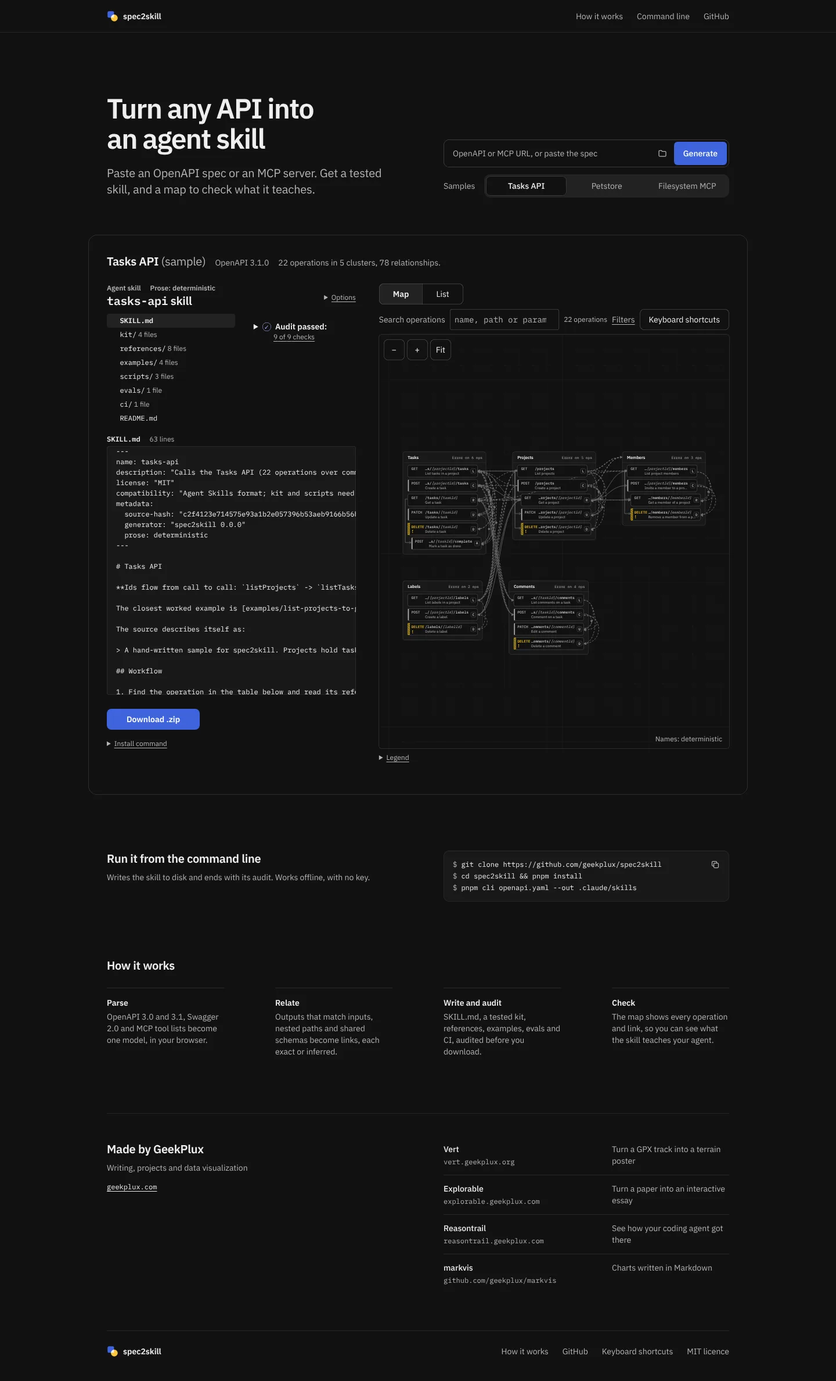
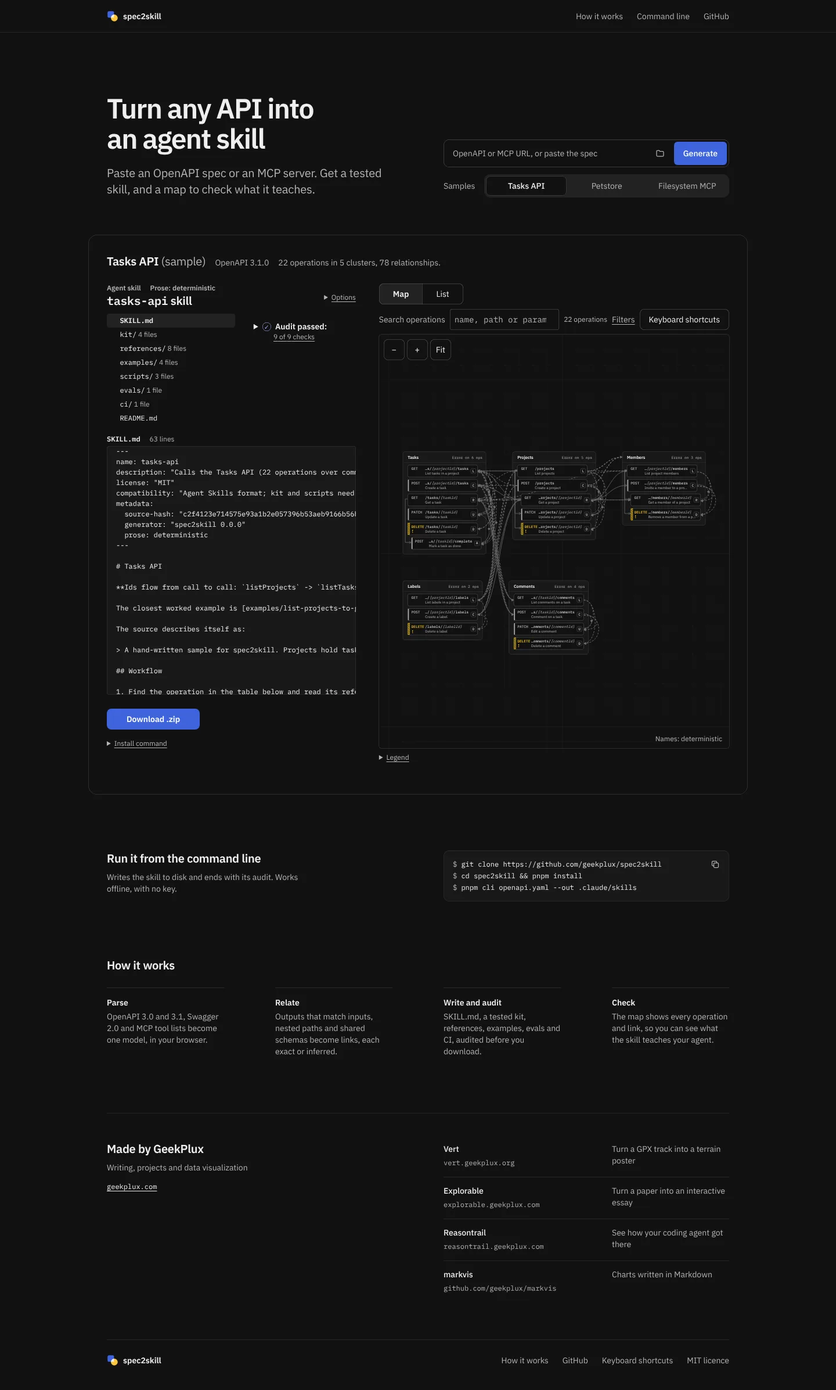
Redesign R2: verify round 1 fixes
Frame keeps 16 px from the window below 1200 (wrap padding 48); hero stacks below 960; one-line
placeholder; Samples columns minmax(max-content, 1fr) and wrap under the label; phone menu closes on
Escape and outside tap; CLI text 44ch, Made by rows 72 px, full-width phone rule, target field label,
Open file ring clear of Generate. MCP fallback: 5xx retried once, MCP-only errors shown, text/html
bodies that parse as a spec accepted. Redesign flows write committed shots only with --capture.

Claude-Session: https://claude.ai/code/session_018f8FAnzov9ZBQEqsiVnGBS

diff --git a/src/app.css b/src/app.css
@@ -23,6 +23,9 @@ code { font-family: var(--font-mono); font-size: inherit; }
    below; below 640 px it is one column with a 16 px gutter. */
 :root { --gap: min(var(--space-88), 7.75vw); }
 .wrap { width: 100%; max-width: 1136px; margin: 0 auto; padding: 0 var(--space-32); }
+/* Below 1200 px the window no longer leaves 32 px outside the column, so the side padding grows to 48:
+   the frame, hanging 32 px, keeps 16 px from the window edge (D39). */
+@media (max-width: 1199px) { .wrap { padding: 0 var(--space-48); } }
 .two { display: grid; grid-template-columns: repeat(2, minmax(0, 1fr)); column-gap: var(--gap); }
 .muted { color: var(--gray-11); }
 .mono { font-family: var(--font-mono); }
@@ -61,17 +64,20 @@ code { font-family: var(--font-mono); font-size: inherit; }
 }
 .source .input:focus-visible { outline: none; }
 .source .input:focus { height: auto; min-height: var(--field-h); max-height: 12lh; field-sizing: content; } /* pasted text shows while editing */
-.source .input::placeholder { color: var(--gray-11); opacity: 1; }
-.source-field .icon-btn { margin-bottom: var(--space-4); }
+.source .input::placeholder { color: var(--gray-11); opacity: 1; text-overflow: ellipsis; }
+/* The placeholder stays on one line (cut with an ellipsis) instead of wrapping out of the 40 px box. */
+.source .input:placeholder-shown { white-space: nowrap; overflow: hidden; text-overflow: ellipsis; }
+.source-field .icon-btn { margin: 0 var(--space-4) var(--space-4) 0; } /* its focus ring stays clear of Generate */
 .generate {
   flex: none; height: var(--field-h); padding: 0 var(--space-16); border: 0; border-radius: var(--radius-row);
   background: var(--indigo-9); color: var(--indigo-contrast); font: 500 var(--text-14)/var(--leading-14) var(--font-sans); white-space: nowrap; cursor: pointer;
 }
 /* "Samples" and the segmented control filling the rest of the row. */
-.samples { display: flex; align-items: center; gap: var(--space-16); }
+/* When "Samples" and the control no longer fit one line, the control wraps under the label. */
+.samples { display: flex; flex-wrap: wrap; align-items: center; gap: var(--space-8) var(--space-16); }
 .samples-label { color: var(--gray-11); }
 .seg { display: inline-flex; gap: var(--space-2); padding: var(--space-4); border-radius: var(--radius-box); background: var(--gray-3); }
-.samples .seg { flex: 1; display: grid; grid-template-columns: repeat(3, minmax(0, 1fr)); }
+.samples .seg { flex: 1 0 max-content; display: grid; grid-template-columns: repeat(3, minmax(max-content, 1fr)); }
 .seg-item {
   position: relative; display: flex; align-items: center; justify-content: center; height: 32px; padding: 0 var(--space-12);
   border-radius: var(--radius-row); color: var(--gray-11); white-space: nowrap; cursor: pointer;
@@ -90,6 +96,7 @@ code { font-family: var(--font-mono); font-size: inherit; }
 .block:focus, .block:focus-visible { outline: none; }
 .block h2, .made h2 { margin: 0 0 var(--space-8); }
 .two h2 + p, .block h2 + p { margin: 0; }
+#cli h2 + p { max-width: 44ch; }
 .cli { position: relative; min-width: 0; border-radius: var(--radius-box); background: var(--gray-2); box-shadow: inset 0 0 0 var(--line) var(--gray-6); }
 .cli pre { margin: 0; padding: var(--space-14) var(--space-48) var(--space-14) var(--space-16); font: var(--text-12)/20px var(--font-mono); white-space: pre-wrap; overflow-wrap: anywhere; } /* wraps on narrow columns: never a scroll region */
 .cli-line { display: block; }
@@ -111,11 +118,15 @@ code { font-family: var(--font-mono); font-size: inherit; }
 .projects li:first-child a { padding-top: var(--space-4); box-shadow: none; }
 .projects b { font-weight: 500; }
 .project-text { grid-column: 2; grid-row: 1 / span 2; color: var(--gray-11); }
-.projects code { margin-top: var(--space-4); color: var(--gray-11); font-size: var(--text-12); line-height: var(--leading-12); }
+.projects code { margin-top: var(--space-4); color: var(--gray-11); font-size: var(--text-12); line-height: 20px; } /* rows of 72 px, as the target */
 .projects a:hover b { text-decoration: underline; text-decoration-thickness: var(--line); text-underline-offset: 3px; }
 .foot { margin-top: var(--space-64); }
 .foot-in { height: 72px; display: flex; align-items: center; justify-content: space-between; box-shadow: inset 0 var(--line) 0 var(--gray-6); }
 
+@media (max-width: 959px) {
+  /* The hero stacks before its field gets too narrow for the placeholder. */
+  .two.hero-in { grid-template-columns: minmax(0, 1fr); row-gap: var(--space-24); }
+}
 @media (max-width: 639px) {
   /* Phones (V2Phone): one column, a 16 px gutter; the field becomes input over a full-width Generate. */
   .wrap { padding: 0 var(--space-16); }
@@ -129,16 +140,19 @@ code { font-family: var(--font-mono); font-size: inherit; }
   }
   .hdr .nav[data-open] a { display: flex; align-items: center; min-height: 44px; }
   .hero { padding: var(--space-40) 0 var(--space-32); }
-  .hero-in { row-gap: var(--space-24); }
   .hero-lede { font-size: var(--text-14); line-height: var(--leading-14); letter-spacing: 0; }
   .source-field { flex-wrap: wrap; padding: var(--space-4); }
   .source .input { padding-inline: var(--space-12); }
   .generate { flex-basis: 100%; }
   .samples { flex-direction: column; align-items: stretch; gap: var(--space-8); }
+  .samples .seg { flex: none; }
   .samples .seg { grid-template-columns: auto auto auto; }
   .seg-item { padding: 0 var(--space-8); }
   /* The result is not a framed card on phones: a rule above it. */
-  .frame { margin: 0; padding: var(--space-32) 0 0; border-radius: 0; box-shadow: inset 0 var(--line) 0 var(--gray-6); }
+  .frame {
+    margin: 0 calc(-1 * var(--space-16)); padding: var(--space-32) var(--space-16) 0; border-radius: 0;
+    box-shadow: inset 0 var(--line) 0 var(--gray-6); /* the rule spans the window; the contents keep the gutter */
+  }
   .block { padding-top: var(--space-64); }
   .made { margin-top: var(--space-64); }
   .made-in { padding-top: var(--space-40); }

diff --git a/src/source/fetchSource.test.ts b/src/source/fetchSource.test.ts
@@ -11,6 +11,7 @@ const TOOLS = { tools: [{ name: 'read_file', description: 'Read a file', inputSc
 const text = (body: string, headers: Record<string, string> = {}, status = 200) => new Response(body, { status, headers });
 const json = (body: unknown, status = 200) => text(JSON.stringify(body), { 'content-type': 'application/json' }, status);
 const html = (status = 404) => text('<!doctype html><title>x</title>', { 'content-type': 'text/html' }, status);
+const asHtml = (body: string) => () => text(body, { 'content-type': 'text/html; charset=utf-8' });
 const cors = () => Promise.reject(new TypeError('Failed to fetch'));
 
 /** Runs loadSource against `routes` (exact URL -> handler); records calls, steps and writes. */
@@ -131,7 +132,7 @@ describe('loadSource: URLs', () => {
 
   it('keeps the spec error when the MCP retry fails too, and never retries outside Auto', async () => {
     const url = 'https://specs.example.test/data.json';
-    const both = await run({ url }, { [url]: () => json({ hello: 1 }), '/api/mcp/tools': () => json({ error: { code: 'legacy-transport', message: '' } }, 502) });
+    const both = await run({ url }, { [url]: () => json({ hello: 1 }), '/api/mcp/tools': () => json({ error: { code: 'http-error', message: 'The server answered 404.' } }, 502) });
     expect(codeOf(both.error)).toBe('unsupported');
     expect((both.error as Error).message).toContain('"hello"');
     const page = await run({ url }, { [url]: () => html(200), '/api/mcp/tools': () => json({ error: { code: 'http-error', message: 'The server answered 404.' } }, 502) });
@@ -143,6 +144,36 @@ describe('loadSource: URLs', () => {
     expect([codeOf(strict.error), strict.urls]).toEqual(['unsupported', [url]]);
     const mcpOnly = await run({ url }, { [url]: () => text('', {}, 405) }, 'openapi');
     expect(codeOf(mcpOnly.error)).toBe('http-error');
+  });
+
+  it('shows the MCP error instead when the MCP retry fails for a reason only MCP has', async () => {
+    const url = 'https://specs.example.test/data.json';
+    for (const code of ['needs-auth', 'legacy-transport'] as const) {
+      const r = await run({ url }, { [url]: () => json({ hello: 1 }), '/api/mcp/tools': () => json({ error: { code, message: '' } }, code === 'needs-auth' ? 401 : 502) });
+      expect([codeOf(r.error), r.urls]).toEqual([code, [url, '/api/mcp/tools']]);
+    }
+  });
+
+  it('tries a URL whose GET answers 5xx as MCP once, keeping the 5xx error when that fails', async () => {
+    const url = 'https://tools.example.test/rpc';
+    const ok = await run({ url }, { [url]: () => text('', {}, 500), '/api/mcp/tools': () => json(TOOLS) });
+    expect([ok.error, ok.urls, ok.model?.source.kind]).toEqual([undefined, [url, '/api/mcp/tools'], 'mcp']);
+    const down = await run({ url }, { [url]: () => text('', {}, 503), '/api/mcp/tools': () => json({ error: { code: 'http-error', message: 'The server answered 503.' } }, 502) });
+    expect([codeOf(down.error), down.urls]).toEqual(['http-error', [url, '/api/mcp/tools']]);
+    expect((down.error as Error).message).toContain('503');
+  });
+
+  it('accepts a spec or tools/list served as text/html, and still calls a real page a page', async () => {
+    const url = 'https://specs.example.test/spec';
+    const spec = await run({ url }, { [url]: asHtml(JSON.stringify(petstore)) }, 'openapi');
+    expect([spec.error, spec.model?.source.kind]).toEqual([undefined, 'swagger2']);
+    const yaml = await run({ url }, { [url]: asHtml(tasksYaml) }, 'openapi');
+    expect(yaml.model?.source.title).toBe('Tasks API');
+    const tools = await run({ url }, { [url]: asHtml(JSON.stringify({ tools: TOOLS.tools })) }, 'openapi');
+    expect(tools.model?.source.kind).toBe('mcp');
+    for (const body of ['<!DOCTYPE html><p>docs</p>', '<div>API docs</div>', '{"hello": 1}']) {
+      expect(codeOf((await run({ url }, { [url]: asHtml(body) }, 'openapi')).error)).toBe('html-page');
+    }
   });
 });
 

diff --git a/src/source/fetchSource.ts b/src/source/fetchSource.ts
@@ -36,11 +36,18 @@ export function toUrl(value: string): URL {
 }
 
 /**
- * Errors that mean "not a spec": in Auto mode the URL is then tried as an MCP server (the web app has
- * no source selector, D37). A page (HTML) or a GET answered 400/404/405/406 may be an MCP endpoint that
- * only takes POST; if the MCP try fails too, the spec error is reported.
+ * Errors that mean "not a spec": in Auto mode the URL is then tried as an MCP server, once (the web app
+ * has no source selector, D37). A page (HTML), or a GET answered 400/404/405/406 or 5xx, may be an MCP
+ * endpoint that only takes POST.
  */
-export const notSpec = (e: unknown) => e instanceof SourceError && (['not-a-spec', 'unsupported', 'html-page'].includes(e.code) || (e.code === 'http-error' && /\b40[0456]\b/.test(e.message)));
+export const notSpec = (e: unknown) => e instanceof SourceError && (['not-a-spec', 'unsupported', 'html-page'].includes(e.code) || (e.code === 'http-error' && /\b(40[0456]|5\d\d)\b/.test(e.message)));
+
+/**
+ * The error to show when both tries failed: the MCP one when it is specific to MCP (the server needs
+ * credentials, or speaks the older transport), else the spec's own, which says more.
+ */
+export const fallbackError = (spec: unknown, asMcp: unknown): unknown =>
+  asMcp instanceof SourceError && (asMcp.code === 'needs-auth' || asMcp.code === 'legacy-transport') ? asMcp : spec;
 
 /** Reads a direct or proxied answer: 405/406 or an event stream means an MCP endpoint. */
 async function read(res: Response, type = res.headers.get('content-type') ?? ''): Promise<Got | 'mcp'> {
@@ -66,11 +73,21 @@ async function mcp(url: URL, deps: LoadDeps): Promise<Doc> {
   return { doc: { tools: r.tools }, options: { url: url.href, serverInfo: r.serverInfo, protocolVersion: r.protocolVersion } };
 }
 
+/**
+ * A fetched or pasted document. A body that starts like HTML is a page; a body served as text/html that
+ * still parses as a spec or a tools/list is accepted (some servers label everything text/html).
+ */
 export function parse(got: Got): Doc {
-  if (got.type?.includes('text/html') || /^\s*<(!doctype|html)/i.test(got.text)) throw new SourceError('html-page');
-  const { value } = parseText(got.text);
+  if (/^\s*<(!doctype|html)/i.test(got.text)) throw new SourceError('html-page');
+  const served = got.type?.includes('text/html');
+  let value: unknown;
+  try {
+    value = parseText(got.text).value;
+  } catch (e) {
+    throw served ? new SourceError('html-page') : e;
+  }
   const found = detect(value);
-  if (found.kind === 'unsupported') throw new SourceError('unsupported', found.message);
+  if (found.kind === 'unsupported') throw served ? new SourceError('html-page') : new SourceError('unsupported', found.message);
   return { doc: value, options: got.url ? { url: got.url } : {} };
 }
 
@@ -97,7 +114,7 @@ async function fromUrl(raw: string, mode: Mode, deps: LoadDeps): Promise<Doc> {
     return parse({ url: url.href, ...got });
   } catch (e) {
     if (mode !== 'auto' || !notSpec(e)) throw e;
-    return mcp(url, deps).catch((second: unknown) => Promise.reject(deps.signal.aborted ? second : e)); // the spec error says more
+    return mcp(url, deps).catch((second: unknown) => Promise.reject(deps.signal.aborted ? second : fallbackError(e, second)));
   }
 }
 

diff --git a/src/shell/Header.tsx b/src/shell/Header.tsx
@@ -1,4 +1,4 @@
-import { type MouseEvent, useState } from 'react';
+import { type MouseEvent, useEffect, useRef, useState } from 'react';
 import { Wordmark } from '../design/Logo';
 
 export const REPO = 'https://github.com/geekplux/spec2skill';
@@ -18,15 +18,33 @@ export function onInPage(e: MouseEvent<HTMLAnchorElement>) {
 /** Wordmark left; How it works, Command line, GitHub right (behind a Menu button on phones). No other buttons. */
 export function Header() {
   const [open, setOpen] = useState(false);
+  const header = useRef<HTMLElement>(null);
+  const menu = useRef<HTMLButtonElement>(null);
+  // The phone menu closes on Escape (focus back on Menu) and on a click or tap outside the header.
+  useEffect(() => {
+    if (!open) return;
+    const onKey = (e: KeyboardEvent) => {
+      if (e.key !== 'Escape') return;
+      setOpen(false);
+      menu.current?.focus();
+    };
+    const onDown = (e: PointerEvent) => !header.current?.contains(e.target as Node) && setOpen(false);
+    document.addEventListener('keydown', onKey);
+    document.addEventListener('pointerdown', onDown);
+    return () => {
+      document.removeEventListener('keydown', onKey);
+      document.removeEventListener('pointerdown', onDown);
+    };
+  }, [open]);
   const go = (e: MouseEvent<HTMLAnchorElement>) => {
     setOpen(false);
     onInPage(e);
   };
   return (
-    <header className="hdr">
+    <header className="hdr" ref={header}>
       <div className="wrap hdr-in">
         <a href="/" className="brand"><Wordmark /></a>
-        <button type="button" className="menu" aria-label="Menu" aria-expanded={open} aria-controls="site-nav" onClick={() => setOpen(!open)}>
+        <button type="button" ref={menu} className="menu" aria-label="Menu" aria-expanded={open} aria-controls="site-nav" onClick={() => setOpen(!open)}>
           <svg width="20" height="20" viewBox="0 0 20 20" fill="none" stroke="currentColor" strokeWidth="1.25" strokeLinecap="round" aria-hidden="true"><path d="M3.5 7h13M3.5 13h13" /></svg>
         </button>
         <nav id="site-nav" className="nav" aria-label="Site" data-open={open || undefined}>

diff --git a/src/cli/load.ts b/src/cli/load.ts
@@ -7,7 +7,7 @@ import type { ApiModel } from '../model/types';
 import { MAX_SPEC_BYTES, ParseError } from '../parse/text';
 import { getSample, sampleModel } from '../samples';
 import { SourceError, isSourceErrorCode } from '../source/errors';
-import { type Doc, MCP_PATH, type Mode, notSpec, parse, toUrl } from '../source/fetchSource';
+import { type Doc, MCP_PATH, type Mode, fallbackError, notSpec, parse, toUrl } from '../source/fetchSource';
 import { ProxyError, toProxyError } from '../../worker/errors';
 import { SPEC_HEADERS, SPEC_TIMEOUT_MS } from '../../worker/fetchSpec';
 import { type FetchFn, MAX_BYTES, type UrlCheck, deadline, fetchFollowing, readCapped } from '../../worker/limits';
@@ -58,7 +58,7 @@ async function fromUrl(raw: string, mode: Mode, fetch: FetchFn): Promise<Doc> {
   } catch (e) {
     const error = asSource(e);
     if (mode !== 'auto' || !notSpec(error)) throw error;
-    return mcp(url, fetch).catch(() => Promise.reject(error)); // the spec error says more
+    return mcp(url, fetch).catch((second: unknown) => Promise.reject(fallbackError(error, second)));
   }
 }
 

diff --git a/src/source/SourceInput.tsx b/src/source/SourceInput.tsx
@@ -46,7 +46,7 @@ export function SourceInput({ value, onValue, onLoad, onGenerate, field }: Sourc
           setOver(false);
           onLoad({ file });
         }}>
-        <label htmlFor="source-field" className="visually-hidden">OpenAPI or MCP URL, or the spec text</label>
+        <label htmlFor="source-field" className="visually-hidden">Spec or server URL, or the spec text</label>
         <span id="source-hint" className="visually-hidden">Enter loads. Shift+Enter adds a new line. You can also drop a spec file here.</span>
         <textarea id="source-field" ref={field} className="input" rows={1} value={value} spellCheck={false} autoComplete="off"
           aria-describedby="source-hint" placeholder="OpenAPI or MCP URL, or paste the spec" onChange={(e) => onValue(e.target.value)}

diff --git a/docs/DECISIONS.md b/docs/DECISIONS.md
@@ -61,7 +61,7 @@ Record every non-trivial decision here: date, decision, alternatives considered,
 | 2026-10-24 | D34 Colour roles for R1 (map and views keep their layout until R4/R5): ink to gray-12, graphite to gray-11, rule to gray-6, frames to gray-7, fields to gray-8, paper to gray-1, vellum to gray-2, meridian fills to indigo-9 (Download .zip) and meridian text to indigo-11 (links, audit pass, current loading step). Method hues collapse to gray-11 text; destructive method text and the `!` glyph use a `--destructive` role: amber-11 in dark but **amber-12 in light**, because amber-11 on gray-1 is 4.49:1, just under AA for text (contrast.test.ts records it). The destructive hatch bar is a graphic (3:1), so it stays amber-11 in both themes and keeps the amber cue in light. All map edges are gray-9 at full opacity (3.2:1 on gray-1) and keep their line style, marker and label; edge labels and path parameters are gray-11 (indigo stays the one accent); cluster washes are gone. | amber-11 everywhere as drawn in the target (fails AA by 0.006); indigo edges as a literal meridian mapping. | WCAG AA for text is binding; one accent (DESIGN.md section 2). |
 | 2026-10-24 | D35 The DESIGN.md section 8 checks 1-4 and 7 live in `scripts/browser/redesign-checks.mjs` (`designChecks(page, { theme, checks, sizes })`, colours read from tokens.css), unit-tested in `redesign-checks.test.mjs`; `scripts/browser/flows/redesign-r1.mjs` runs them on the first view (1440 and 390, light and dark), the list view, a keyboard-focused map node and the detail panel (1440, light and dark), and reduced motion. `src/design/copy.test.ts` scans the app source and index.html for the middle dot; `src/skillgen` is exempt because its dots are in the generated skill's Markdown (product output, unchanged in R1). `docs/redesign/target/` is excluded from oxlint (reference generator, not product code). | A Python script; scanning generated files too. | One reusable helper for R2-R7; generated skill content changes belong to a skill-generator change with its snapshots and gallery. |
 | 2026-10-24 | D36 Size budget unchanged: with six Plex faces the initial total is 244.6 / 260 KB gzip (fonts counted raw, each 14-24 KB under the 45 KB per-font cap); initial JS 124.7 / 170 KB. | Raise `initialTotalGzipKB`; subset glyphs further. | It passes; about 15 KB of headroom remains for R2-R7, which `check-size` will flag if used up. |
-| 2026-10-24 | D37 Redesign R2: no source-kind selector and no More options. The web app always loads in Auto mode: a URL is fetched as a spec and, when it is not one, tried as an MCP server. `notSpec` (shared with the CLI's Auto mode) now also covers an HTML page and a GET answered 400 or 404 (MCP endpoints that only take POST often answer GET that way), besides not-a-spec, unsupported and 405/406; if the MCP try fails too, the spec's own error is shown. The error panel offers exactly its two recovery actions, "Paste spec text instead" and "Try a sample"; "Load it as an MCP server" is gone. Paths `/mcp` and `/sse` still go straight to MCP. `loadSource`'s `mode` stays for the CLI (`--source`). | Keep the selector behind a disclosure; keep "Load it as an MCP server" in the error panel. | DESIGN.md 4.2 and rule 9 (minimise decisions): the retry the selector offered now happens by itself, at the cost of one extra proxy call for a docs page or a 404. |
+| 2026-10-24 | D37 Redesign R2: no source-kind selector and no More options. The web app always loads in Auto mode: a URL is fetched as a spec and, when it is not one, tried as an MCP server. `notSpec` (shared with the CLI's Auto mode) now also covers an HTML page and a GET answered 400 or 404 (MCP endpoints that only take POST often answer GET that way), besides not-a-spec, unsupported and 405/406; if the MCP try fails too, the spec's own error is shown. The error panel offers exactly its two recovery actions, "Paste spec text instead" and "Try a sample"; "Load it as an MCP server" is gone. Round 1 of review widened it: a GET answered 5xx is also tried as MCP once; when the MCP try fails for a reason only MCP has (needs-auth, legacy-transport) that error is shown instead of the spec's; a body served as text/html that parses as a spec or a tools/list is accepted (a body that starts like HTML is still a page). Paths `/mcp` and `/sse` still go straight to MCP. `loadSource`'s `mode` stays for the CLI (`--source`). | Keep the selector behind a disclosure; keep "Load it as an MCP server" in the error panel. | DESIGN.md 4.2 and rule 9 (minimise decisions): the retry the selector offered now happens by itself, at the cost of one extra proxy call for a docs page, a 404 or a 5xx. |
 | 2026-10-24 | D38 Spacing tokens are named by value (`--space-16` is 16 px) and extended for the grid: 2, 4, 8, 12, 14, 16, 20, 24, 32, 40, 48, 64, 88, 96, 104 (the old `--space-1..6` = 4/8/16/24/40/64 were renamed in place in app.css); `scripts/check-spacing.mjs` still rejects raw px/rem in spacing properties. Radii gain `--radius-row` 6, `--radius-box` 10 and `--radius-frame` 16 (sm 4, md 8 stay). The source field's text padding is derived from its height (`calc((var(--field-h) - var(--leading-14)) / 2)`) rather than a 10 px token. | Keep ordinal names and slot the new values between them; allow-list raw values. | Ordinal names cannot take 12 between 8 and 16; value names read at a glance and match gen.mjs. |
-| 2026-10-24 | D39 Grid: `.wrap` is max 1136 px with 32 px padding (a 1072 px column); every grid uses `minmax(0, 1fr)` columns and a gap of `min(88px, 7.75vw)`, which is exactly 492/492 and 4 x 202 at 1136 px and wider and fluid below; under 640 px one column with a 16 px gutter. The result frame hangs 32 px outside the column (it touches the window edge between 640 and 1136 px); on phones it is not a card but a 0.5 px rule above the result (DESIGN.md 6). The skill pane and the map now size themselves from their top inside the frame (`src/shell/frame.ts`), so they fill the window once the frame is scrolled to; the hero is the first view. | Fixed 492/202 tracks with a separate fluid media query; keep sizing from the page top. | One rule for every width; the map and pane would otherwise shrink to their minimum under the hero. |
-| 2026-10-24 | D40 Page shell details: the samples are native radio buttons in a `role="radiogroup"` labelled "Samples" (arrow keys move and select, one Tab stop, nothing checked while a user source is shown; clicking the selected one names it in the URL as the chips did); the chip row, its "More samples" hint and `src/shell/reveal.ts` are removed (the three samples fit one line at 390, checked in phase-13 and redesign-r2). On phones the header links sit behind a Menu button (as V2Phone draws). Header and footer in-page links (#how, #cli) scroll and move focus without changing the URL, whose hash is `#op=`. Generate (indigo-9, the primary button of the hero) loads the field's source, or with an empty field writes the current skill again (the old header Generate skill; ignored while a load runs). The footer's Keyboard shortcuts opens the existing dialog (state moved from the workspace to App). The workspace's API title is now an h2 under the hero h1. | ARIA tabs with roving tabindex; leave the header links visible on phones; anchors that set the hash. | Radios give the "none selected" state and arrow keys natively; the hash belongs to URL state (F13). |
+| 2026-10-24 | D39 Grid: `.wrap` is max 1136 px with 32 px padding (a 1072 px column); every grid uses `minmax(0, 1fr)` columns and a gap of `min(88px, 7.75vw)`, which is exactly 492/492 and 4 x 202 at 1136 px and wider and fluid below; under 640 px one column with a 16 px gutter. The result frame hangs 32 px outside the column; below 1200 px `.wrap`'s side padding grows from 32 to 48, so the frame always keeps at least 16 px from the window while its contents stay on the column's left edge (the column is then fluid). The hero stacks to one column below 960 px so the field keeps its placeholder on one line, and the Samples control wraps under its label when the two no longer fit one line (columns `minmax(max-content, 1fr)`). On phones the result is not a card but a 0.5 px rule above it spanning the full window (DESIGN.md 6). The skill pane and the map now size themselves from their top inside the frame (`src/shell/frame.ts`), so they fill the window once the frame is scrolled to; the hero is the first view. | Fixed 492/202 tracks with a separate fluid media query; keep sizing from the page top. | One rule for every width; the map and pane would otherwise shrink to their minimum under the hero. |
+| 2026-10-24 | D40 Page shell details: the samples are native radio buttons in a `role="radiogroup"` labelled "Samples" (arrow keys move and select, one Tab stop, nothing checked while a user source is shown; clicking the selected one names it in the URL as the chips did); the chip row, its "More samples" hint and `src/shell/reveal.ts` are removed (the three samples fit one line at 390, checked in phase-13 and redesign-r2). On phones the header links sit behind a Menu button (as V2Phone draws). Header and footer in-page links (#how, #cli) scroll and move focus without changing the URL, whose hash is `#op=`. Generate (indigo-9, the primary button of the hero) loads the field's source, or with an empty field writes the current skill again (the old header Generate skill; ignored while a load runs). The phone menu closes on Escape (focus back on Menu) and on a tap outside the header. The redesign flows write their committed screenshots only with `--capture <flow>` (scripts/check-browser.mjs); otherwise into the run's phase folder, so a later run never overwrites an earlier phase's images. The footer's Keyboard shortcuts opens the existing dialog (state moved from the workspace to App). The workspace's API title is now an h2 under the hero h1. | ARIA tabs with roving tabindex; leave the header links visible on phones; anchors that set the hash. | Radios give the "none selected" state and arrow keys natively; the hash belongs to URL state (F13). |
